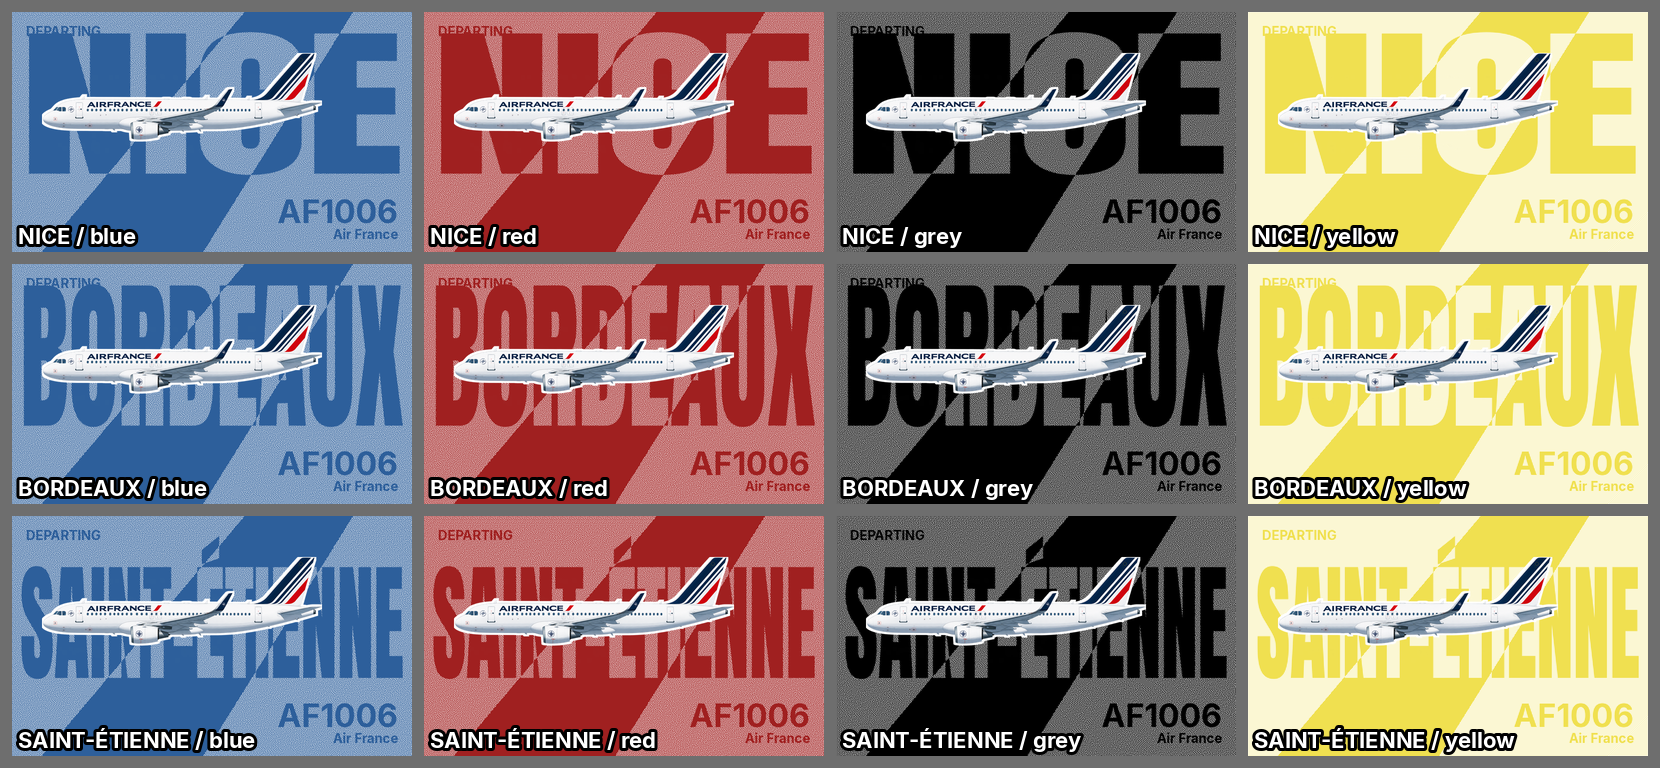
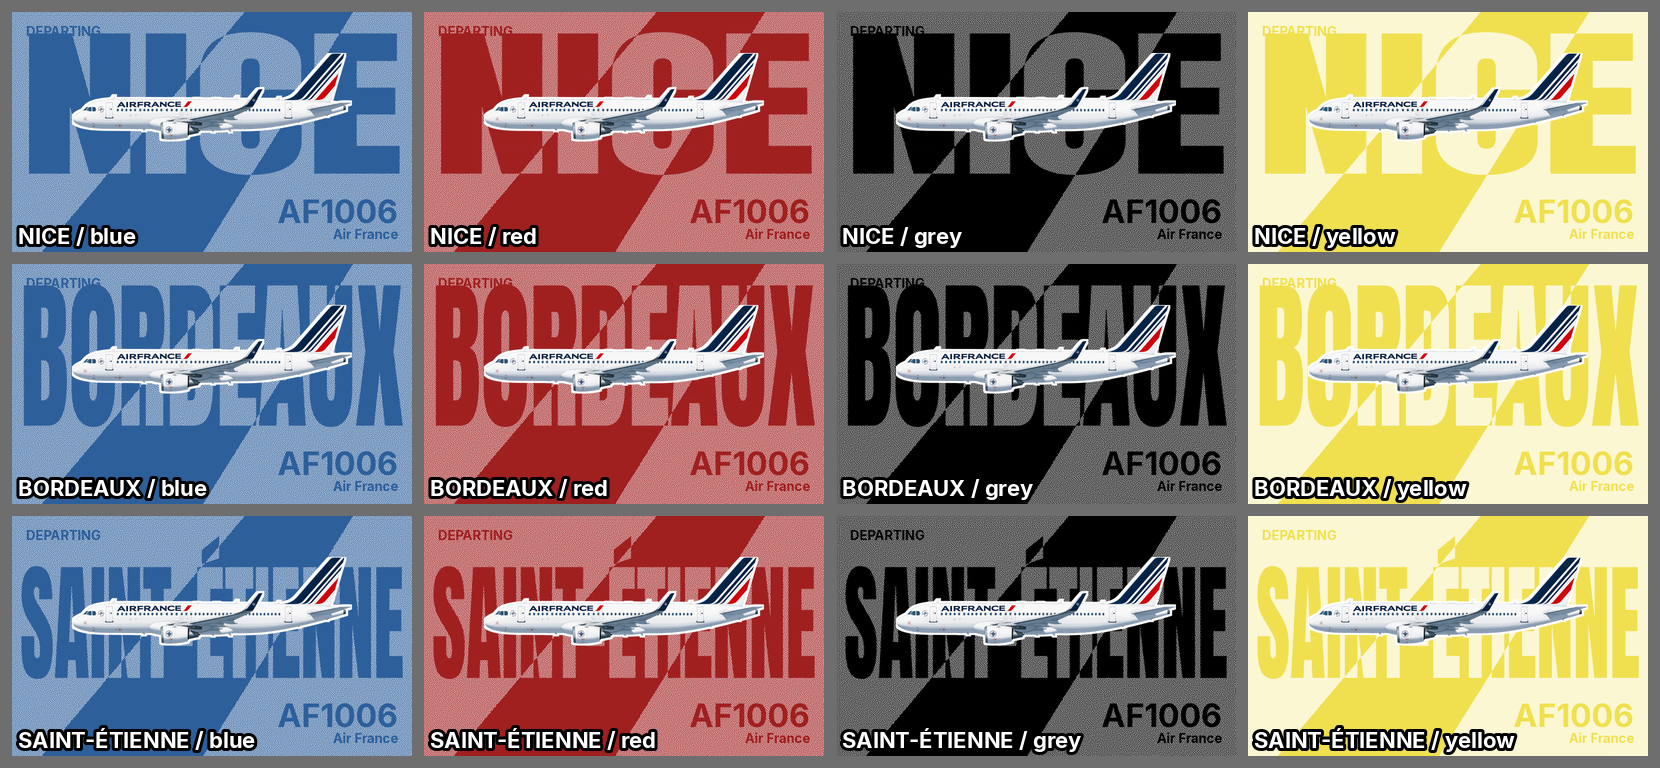
Mock-up: centre the whole aircraft in the landscape diagonal variant
Claude-Session: https://claude.ai/code/session_019w4bpjg26CtsBp1Ywmgh2a

diff --git a/design-exploration/plane-screen/mock_landscape_diagonal.py b/design-exploration/plane-screen/mock_landscape_diagonal.py
@@ -54,7 +54,7 @@ def build(name, idx, fraction, layout):
     tone = Image.composite(field, solid, mask)
     g.giant_text(c, [name], (16, 40, W - 16, 340), tone, heavy=1, stretch=True)
     if layout == "whole":
-        t.v.paste_with_halo(c, t.v.load_plane(560), (W / 2 - 60, 190), halo=9)
+        t.v.paste_with_halo(c, t.v.load_plane(560), (W / 2, 190), halo=9)
     else:
         full = t.v.load_plane(800)
         nose = full.crop((0, 0, int(full.width * 0.5), full.height))
